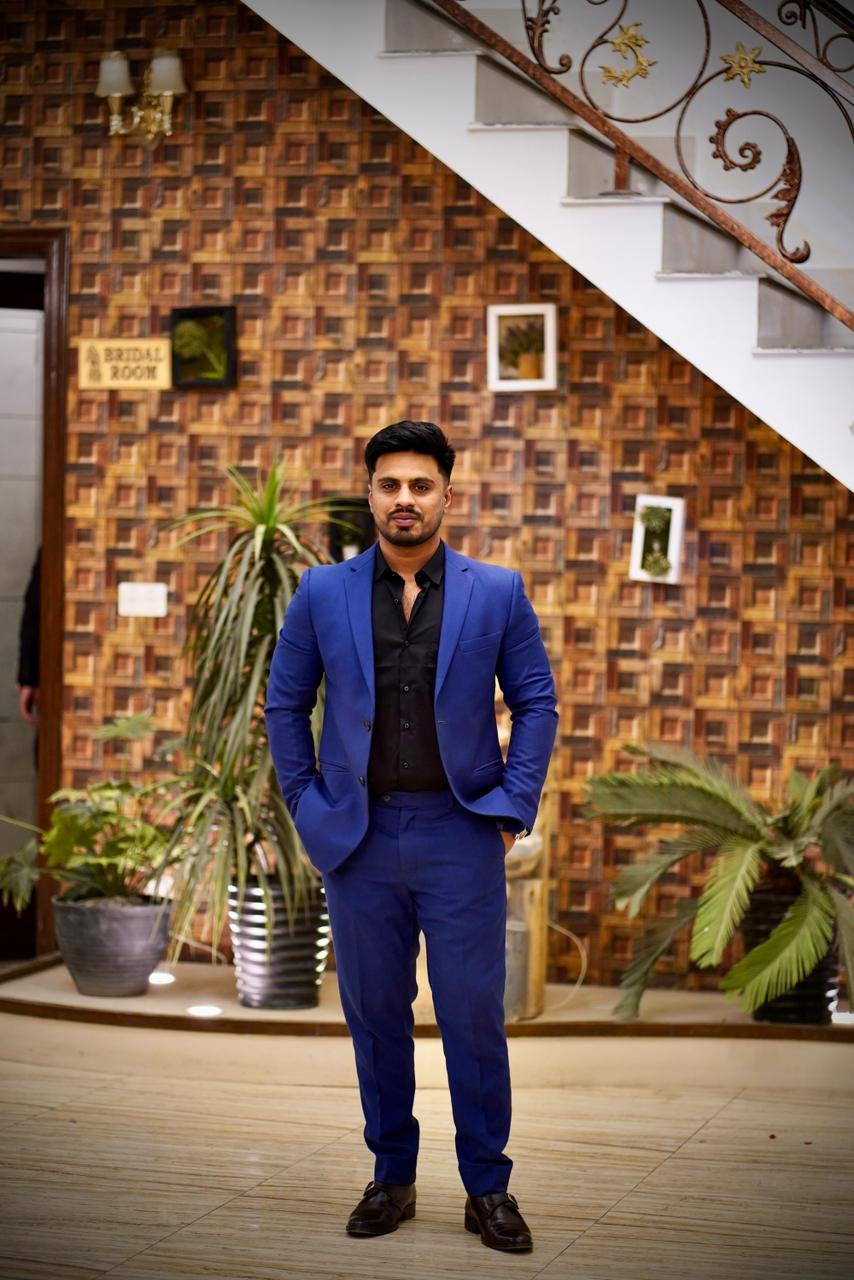
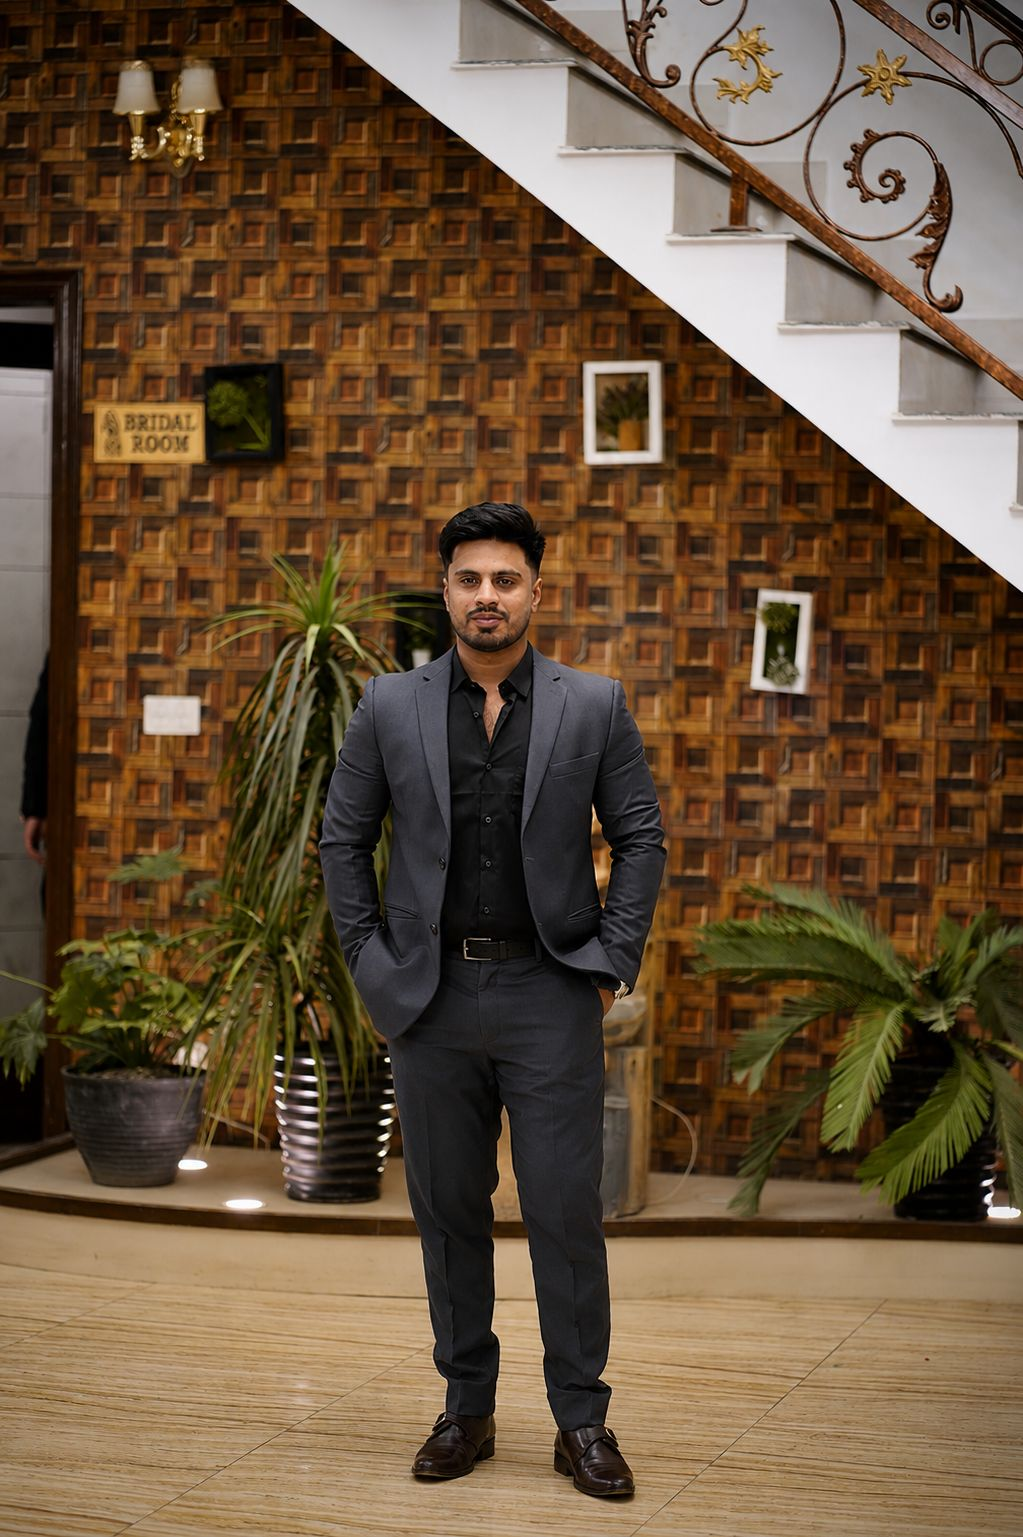
Fixed Bugs

diff --git a/server/src/seeds/seedData.js b/server/src/seeds/seedData.js
@@ -103,7 +103,7 @@ export async function runSeed() {
       focus: ['Sustainable fat loss programs', 'Nutrition guidance for Pakistani diets', 'Weekly progress tracking', 'Training for complete beginners'],
       suitableFor: ['People whose main goal is losing fat, not just “exercise”', 'First-time gym members', 'Anyone who has lost weight before and regained it'],
       programs: ['weight-loss-fat-loss', 'personal-training'],
-      sortOrder: 1
+      sortOrder: 3
     },
     {
       name: 'Trainer Muazam',
@@ -129,12 +129,12 @@ export async function runSeed() {
       photo: '/images/fitx/trainers/fitx-trainer-iqra-zahid.webp',
       photoAlt: 'Iqra Zahid, women’s fat loss and performance coach at FITX Sahiwal, coaching on the cable station',
       shortBio: 'Dedicated women’s fitness coach at FITX Personal Studio with over seven years of coaching experience.',
-      bio: '**COACH IQRA ZAHID**\n\nIqra Zahid is a dedicated women’s fitness coach at FITX Personal Studio, bringing over seven years of coaching experience. She has worked with students, brides-to-be, new mothers, and women in their fifties, many beginning their fitness journey from zero.\n\nHer approach to women’s training is structured and purposeful, combining progressive strength training, focused fat-loss programming, and practical nutrition guidance tailored to each client’s goals.\n\nFor Iqra, creating a safe, respectful, and supportive training environment is just as important as the results. Her commitment to thoughtful coaching and genuine client care continues to make her an important part of the FITX team.',
+      bio: 'Iqra Zahid is a dedicated women’s fitness coach at FITX Personal Studio, bringing over seven years of coaching experience. She has worked with students, brides-to-be, new mothers, and women in their fifties, many beginning their fitness journey from zero.\n\nHer approach to women’s training is structured and purposeful, combining progressive strength training, focused fat-loss programming, and practical nutrition guidance tailored to each client’s goals.\n\nFor Iqra, creating a safe, respectful, and supportive training environment is just as important as the results. Her commitment to thoughtful coaching and genuine client care continues to make her an important part of the FITX team.',
       philosophy: 'Women don’t need a lighter version of training. They need a proper program, a coach who takes them seriously, and a space where they can focus.',
       focus: ['Women’s fat loss programs', 'Strength training for women', 'Postpartum-appropriate programming (with clearance)', 'Confidence with technique and equipment'],
       suitableFor: ['Women starting fitness for the first time', 'Women who want structured fat loss with a female coach', 'Women who tried home workouts and plateaued'],
       programs: ['womens-performance', 'weight-loss-fat-loss'],
-      sortOrder: 3
+      sortOrder: 1
     }
   ]);
 

diff --git a/client/src/pages/public/Results.jsx b/client/src/pages/public/Results.jsx
@@ -7,30 +7,32 @@ import { PageHero, Quote, CTABand, SectionHead } from '../../components/site/blo
 import { featuredBoys } from '../../lib/testimonials.js';
 
 /* Curated set of client transformation testimonials to feature on Success Stories.
-   Only the neat, clean photos are included, all shown full, in equal frames. */
+   Order below is the display order: one male, then two women, then two men,
+   then two women, then the remaining transformations. */
 const FEATURED = [
-  'fitx-testimonial-01',
-  'fitx-testimonial-06',
-  'fitx-testimonial-08',
-  'fitx-testimonial-12',
+  'fitx-testimonial-06', // male
+  'fitx-testimonial-01', // female
+  'fitx-testimonial-14', // female
+  'fitx-testimonial-08', // male
+  'fitx-testimonial-12', // male
+  'fitx-testimonial-19', // female
+  'fitx-testimonial-25', // female
   'fitx-testimonial-13',
-  'fitx-testimonial-14',
   'fitx-testimonial-15',
   'fitx-testimonial-16',
   'fitx-testimonial-17',
   'fitx-testimonial-18',
-  'fitx-testimonial-19',
   'fitx-testimonial-20',
   'fitx-testimonial-23',
-  'fitx-testimonial-24',
-  'fitx-testimonial-25'
+  'fitx-testimonial-24'
 ];
 
 export default function Results() {
   const { data: testimonials } = useFetch('/testimonials');
   const quotes = featuredBoys(testimonials);
   const transforms = (testimonials || []).filter((t) => t.kind === 'transformation');
-  const journeys = transforms.filter((t) => FEATURED.some((f) => (t.image || '').includes(f)));
+  // keep the curated FEATURED order (not the database order) so the mix stays as intended
+  const journeys = FEATURED.map((f) => transforms.find((t) => (t.image || '').includes(f))).filter(Boolean);
 
   return (
     <>

diff --git a/client/src/components/site/blocks.jsx b/client/src/components/site/blocks.jsx
@@ -75,8 +75,12 @@ export function HeroSlider() {
         <div className="shell pb-16 sm:pb-20">
           <div key={i} className={`pointer-events-none ${phase === 'out' ? 'hero-out' : 'hero-in'}`}>
             <h1 className="font-display font-extrabold uppercase text-white text-5xl sm:text-7xl lg:text-[6.5rem] leading-none tracking-tight drop-shadow-md">
-              {/* X matched to the brand logo: same cap height as the letters, top flush with the cap line, bottom flush with the baseline */}
-              FIT<LogoX className="ml-[0.05em]" color="#ff920f" style={{ height: '0.717em', width: '1.092em', verticalAlign: '-0.017em' }} />
+              {/* X matched 1:1 to the brand wordmark (fitx-wordmark.png, measured):
+                  the logo's X is 1.205x the cap height of FIT, its top is flush with the
+                  cap line and it drops ~20.5% of the cap height below the baseline, with a
+                  ~0.03em gap after the T. Same proportions here, just at hero size.
+                  The h1 uses tracking-tight (-0.025em), so the margin adds that back. */}
+              FIT<LogoX className="ml-[0.055em]" color="#ff920f" style={{ height: '0.884em', width: '1.347em', verticalAlign: '-0.167em' }} />
             </h1>
             <p className="font-logo font-bold text-white text-base sm:text-2xl lg:text-[2rem] mt-3 tracking-[0.02em] drop-shadow">The Most Premium Personal Training Program</p>
           </div>
